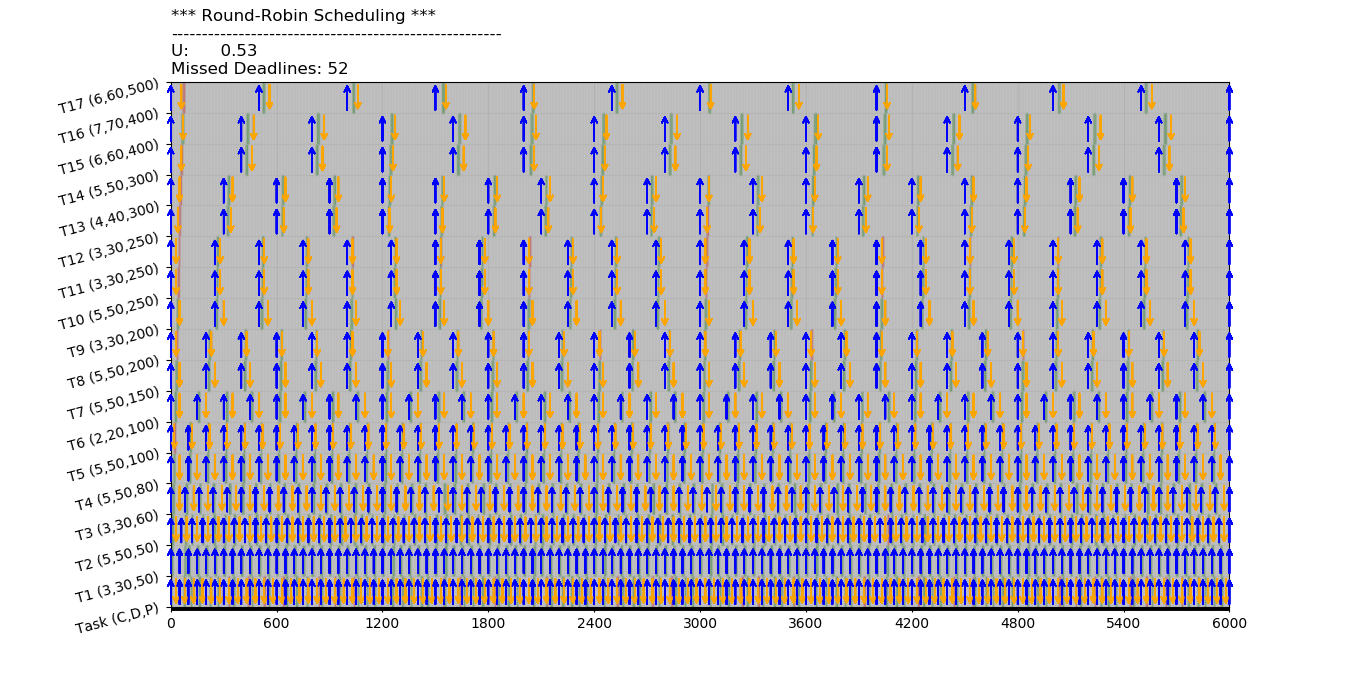
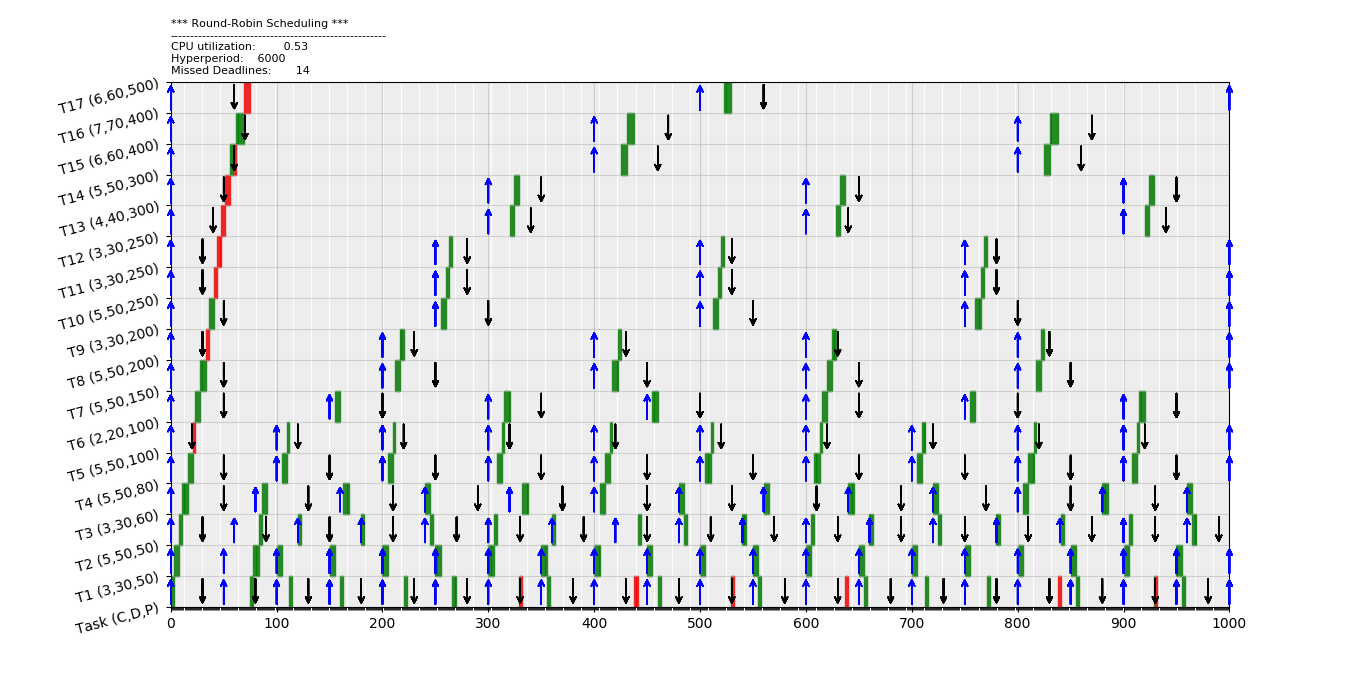
Allow RR to run for RUNTIME instead of hyperperiod.

diff --git a/DMFT/Schedule/RR/RoundRobin.py b/DMFT/Schedule/RR/RoundRobin.py
@@ -15,14 +15,28 @@ Fault Model:
 #===============================================================================
 # Imports
 #===============================================================================
-
 import fractions
 from collections import OrderedDict
 import matplotlib.pyplot as plt
 import numpy as np
+import random
+#===============================================================================
+# Global variable and Constants
+#===============================================================================
+DEADLINEMISS_MARKER =   500
+CPU_USAGE_MARKER    =   1
+FAULT_MARKER        =   100
+MTTF                =   50
+RUNTIME             =   1000
+FAULT_TOLERANCE     =   True
 
-DEADLINEMISS=500
-USE=1
+avC=0 #average execution time
+avD=0 #average D
+tq = 4 #original time quantum
+hyperperiod = []
+util = 0 #CPU utilization 
+tt = OrderedDict() # Time table. 
+missedDeadlines = 0 # Number of deadlines missed during this simulation
 
 #===============================================================================
 # A Task class.
@@ -46,17 +60,6 @@ class Task:
 
     def __str__(self):
         return self.name + "\t" + str(self.bkpC) + "\t" + str(self.D) + "\t" + str(self.P) + "\n"
-
-#===============================================================================
-# Global variables
-#===============================================================================
-avC=0 #average execution time
-avD=0 #average D
-tq = 4 #original time quantum
-hyperperiod = []
-util = 0 #CPU utilization 
-tt = OrderedDict() # Time table. 
-missedDeadlines = 0 # Number of deadlines missed during this simulation
 
 
 #===============================================================================
@@ -153,16 +156,24 @@ def RoundRobin(taskList):
         t.inst = hyperperiod/t.P
     
     #===========================================================================
-    # Create a time table of hyperperiod x n. Initially all 0. Used time instances
+    # Create a time table of RUNTIME x n. Initially all 0. Used time instances
     # will be marked as 1. Missed deadline will be marked as 500. 
     #===========================================================================
     for t in taskList:
-        tt[t.name] = [[0]*hyperperiod,t.color]
+        tt[t.name] = [[0]*RUNTIME,t.color]
 
+    #===============================================================================
+    # Inject faults throughout the RUNTIME based on MTTF
+    #===============================================================================
+    faults = []
+    if FAULT_TOLERANCE:
+        for i in xrange(0,RUNTIME):
+            if i % MTTF == 0:
+                faults.append(random.randint(i,i+MTTF-1))
     #===========================================================================
     # Start scheduling the task list over the hyper period in round robin fashion
     #===========================================================================
-    while time < hyperperiod:
+    while time < RUNTIME:
         # Check for all the "new" tasks arrived on or before this time.
         for t in taskList:
             if (time - t.instDone * t.P) >= 0:
@@ -191,29 +202,32 @@ def RoundRobin(taskList):
                 # Yes it is. Execute for the assigned time quantum and put the remaining at
                 # the end of queue.
                 for i in range(time, time+on_cpu.q):
+                    if i >= RUNTIME:
+                        continue
                     #Is the deadline missed already?
                     if i >= ((on_cpu.instDone - 1) * on_cpu.P + on_cpu.D):
                         # yes, mark this time instance as "missed deadline" on the time table
-                        tt[on_cpu.name][0][i] = DEADLINEMISS
+                        tt[on_cpu.name][0][i] = DEADLINEMISS_MARKER
                         print "time:",i ," ", on_cpu.name, " missed the deadline!"
                         missFlag = True
                     else:
                         # No. We did it before deadline. Mark this time instance as a "success" on time table
-                        tt[on_cpu.name][0][i] = USE
+                        tt[on_cpu.name][0][i] = CPU_USAGE_MARKER
                 time += on_cpu.q
                 on_cpu.C -= on_cpu.q
             else:
                 # No, time quantum is sufficient for this task. Just execute it and get rid of it from the queue.
                 for i in range(time,time+on_cpu.C):
+                    if i >= RUNTIME: continue
                     # Is the deadline missed already?
                     if i >= ((on_cpu.instDone - 1) * on_cpu.P + on_cpu.D):
                         # yes, this time instance as "missed deadline" on the time table
-                        tt[on_cpu.name][0][i] = DEADLINEMISS
+                        tt[on_cpu.name][0][i] = DEADLINEMISS_MARKER
                         print "time:",i ," ", on_cpu.name, " missed the deadline!"
                         missFlag = True
                     else:
                         # No. We did it before deadline. Mark this time instance as a "success" on time table
-                        tt[on_cpu.name][0][i] = USE
+                        tt[on_cpu.name][0][i] = CPU_USAGE_MARKER
                 time+=on_cpu.C
                 on_cpu.C = 0
             # Was a deadline missed? 
@@ -265,8 +279,8 @@ if __name__ == '__main__':
     ax.set_aspect('auto')
 
     # Major ticks every 2, minor ticks every 1
-    major_xticks = np.arange(0, hyperperiod+1, hyperperiod/10)
-    minor_xticks = np.arange(0, hyperperiod+1, 1)
+    major_xticks = np.arange(0, RUNTIME+1, RUNTIME/10)
+    minor_xticks = np.arange(0, RUNTIME+1, 1)
     
     ax.set_xticks(major_xticks)
     ax.set_xticks(minor_xticks, minor=True)
@@ -283,42 +297,49 @@ if __name__ == '__main__':
     ax.grid(which='major', alpha=0.5)
     
     for y, (name,(row,color)) in enumerate(tt.items()):
-        #Traverse through the hyperperiod. Mark deadline and period of each task with arrows.
+        #Traverse through the RUNTIME. Mark deadline and period of each task with arrows.
         for j,task in enumerate(taskList):
-            for i in xrange(0,hyperperiod+1,1):
+            for i in xrange(0,RUNTIME+1,1):
                 if (i % task.P == task.D) and (i > 0):
                     ax.annotate("",xy=(i,j),xycoords= 'data',xytext=(i,j+1),textcoords='data',
-                        arrowprops=dict(arrowstyle='->',color='orange'))
+                        arrowprops=dict(arrowstyle='->',color='black'))
                 if (i % task.P == 0):
                     ax.annotate("",xy=(i,j+1),xycoords= 'data',xytext=(i,j),textcoords='data',
-                        arrowprops=dict(arrowstyle='->',color='blue'))
+                        arrowprops=dict(arrowstyle='->',color='blue'))        
 
         for x, col in enumerate(row):
             x1 = [x, x+1]
             y1 = np.array([y, y])
             y2 = y1+1
-            if col==USE:
+            if col==CPU_USAGE_MARKER:
                 plt.fill_between(x1, y1, y2=y2, color=color)
                 plt.text(avg(x1[0], x1[1]), avg(y1[0], y2[0]), s='', 
                                             horizontalalignment='center',
                                             verticalalignment='center')
                 
-            if col==DEADLINEMISS:
+            if col==DEADLINEMISS_MARKER:
                 plt.fill_between(x1, y1, y2=y2, color='red')
                 plt.text(avg(x1[0], x1[1]), avg(y1[0], y2[0]), s='', 
                                             horizontalalignment='center',
                                             verticalalignment='center')
                 
+            if col==FAULT_MARKER:
+                plt.fill_between(x1, y1, y2=y2, color='yellow')
+                plt.text(avg(x1[0], x1[1]), avg(y1[0], y2[0]), s='', 
+                                            horizontalalignment='center',
+                                            verticalalignment='center')
 
 
-    plt.xlim(0,hyperperiod)
+    plt.xlim(0,RUNTIME)
     plt.ylim(0,len(taskList))
          
     textStr = "*** Round-Robin Scheduling ***\n"
     textStr += "------------------------------------------------------\n"
     #textStr += task_table(taskList)
-    textStr += "U:\t{:.2f}\n".format(util)
-    textStr += "Missed Deadlines: {}".format(missedDeadlines)
+    textStr += "CPU utilization:\t{:.2f}\n".format(util)
+    #textStr+= r'$Average\ Task\ Utilization\ \alpha: {}$'.format(util / len(taskList)) + "\n"
+    textStr += "Hyperperiod:\t{}\n".format(hyperperiod)    
+    textStr += "Missed Deadlines: \t{}".format(missedDeadlines)
     textStr = textStr.expandtabs()
-    plt.title(textStr,fontdict={'fontsize': 12, 'fontweight': 'medium'},loc='left')
+    plt.title(textStr,fontdict={'fontsize': 8, 'fontweight': 'medium'},loc='left')
     plt.show()
